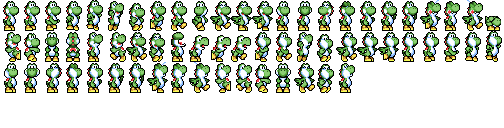
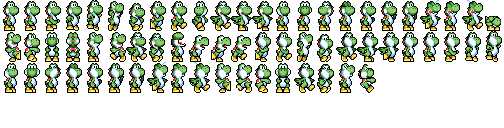
Animation

Changed region(s): [[0.6845, 0.5, 0.744, 0.7188], [0.0893, 0.5, 0.119, 0.7188]]

diff --git a/YoshisAdventure/Render/GameSceneRenderer.cs b/YoshisAdventure/Render/GameSceneRenderer.cs
@@ -1,6 +1,8 @@
 using Microsoft.Xna.Framework;
+using Microsoft.Xna.Framework.Content;
 using Microsoft.Xna.Framework.Graphics;
 using MonoGame.Extended;
+using MonoGame.Extended.BitmapFonts;
 using MonoGame.Extended.Tiled;
 using MonoGame.Extended.Tiled.Renderers;
 using MonoGame.Extended.ViewportAdapters;
@@ -13,12 +15,17 @@ namespace YoshisAdventure.Rendering
 {
     public class GameSceneRenderer
     {
+        private const float FadeAnimationKeepTime = 4f;
         private readonly GraphicsDevice _graphicsDevice;
         private TiledMap _tilemap;
         private TiledMapRenderer _tilemapRenderer;
         private OrthographicCamera _camera;
         private BoxingViewportAdapter _viewportAdapter;
         private SpriteBatch _spriteBatch;
+        private BitmapFont _bitmapFont;
+        private ContentManager _content;
+        //private bool _playFadeAnimation;
+        private float _animationTimer = -1f;
 
         private Vector2 _currentCameraPosition;
         private Vector2 _targetCameraPosition;
@@ -26,38 +33,61 @@ namespace YoshisAdventure.Rendering
         private float _cameraShakeTimer = -1f;
         private Vector2 _cameraShakeOffset = Vector2.Zero;
 
+        public bool IsFirstCameraUpdate { get; set; } = true;
+
+        public string DrawString { get; set; } = string.Empty;
+
         public BoxingViewportAdapter ViewportAdapter => _viewportAdapter;
 
-        public GameSceneRenderer(GraphicsDevice graphicsDevice, GameWindow window)
+        public GameSceneRenderer(GraphicsDevice graphicsDevice, GameWindow window, ContentManager content, bool playFadeAnimation = false)
         {
             _graphicsDevice = graphicsDevice;
             _viewportAdapter = new BoxingViewportAdapter(window, graphicsDevice, GlobalConfig.VirtualResolution_Width, GlobalConfig.VirtualResolution_Height);
             _camera = new OrthographicCamera(_viewportAdapter);
             _spriteBatch = new SpriteBatch(graphicsDevice);
+            _content = content;
+            if (playFadeAnimation)
+                _animationTimer = 0f;
         }
 
         public void LoadContent(TiledMap map)
         {
             _tilemap = map;
             _tilemapRenderer = new TiledMapRenderer(_graphicsDevice, _tilemap);
+            _bitmapFont = _content.Load<BitmapFont>("Fonts/ZFull-GB");
         }
 
         public void Update(GameTime gameTime, Vector2 cameraFocus, bool useFluentCamera = false, int cameraDirection = 1, Vector2 velocity = new Vector2())
         {
+            var elapsedTime = (float)gameTime.ElapsedGameTime.TotalSeconds;
+            if(_animationTimer >= 0f)
+            {
+                _animationTimer += elapsedTime;
+            }
+
+            if(_animationTimer >= FadeAnimationKeepTime)
+            {
+                _animationTimer = -1f;
+            }
+
+                UpdateCamera(gameTime, cameraFocus, useFluentCamera, cameraDirection, velocity);
             _tilemapRenderer.Update(gameTime);
-            UpdateCamera(gameTime, cameraFocus, useFluentCamera, cameraDirection, velocity);
         }
 
         private void UpdateCamera(GameTime gameTime, Vector2 cameraFocus, bool useFluentCamera = false, int cameraDirection = 1, Vector2 velocity = new Vector2())
         {
-            var elapsedTime = (float)gameTime.ElapsedGameTime.TotalSeconds;
             _targetCameraPosition = GetCameraPosition(cameraFocus);
-            if (useFluentCamera)
+            if (IsFirstCameraUpdate)
+            {
+                _currentCameraPosition = _targetCameraPosition;
+                IsFirstCameraUpdate = false;
+            }
+            else if (useFluentCamera)
             {
                 Vector2 lerpResult = Vector2.Lerp(_currentCameraPosition, _targetCameraPosition, 0.1f);
-                if (Math.Abs(velocity.X) >= 1)
+                if (Math.Abs(velocity.X) >= 2)
                 {
-                    float lookAheadDistance = 30f * MathHelper.Clamp(Math.Abs(velocity.X) / 10f, 0f, 1f);
+                    float lookAheadDistance = 30f * MathHelper.Clamp(Math.Abs(velocity.X) / 15f, 0f, 1f);
                     if (cameraDirection == 1)
                     {
                         lerpResult.X += lookAheadDistance;
@@ -73,6 +103,7 @@ namespace YoshisAdventure.Rendering
             {
                 _currentCameraPosition = GetCameraPosition(cameraFocus);
             }
+
             _camera.LookAt(_currentCameraPosition);
 
             if (_cameraShakeTimer >= 0f)
@@ -106,7 +137,31 @@ namespace YoshisAdventure.Rendering
                     if (gameObject != GameObjectsSystem.Player)
                         gameObject.Draw(_spriteBatch);
                 }
+
+                Rectangle screenBounds = GetScreenBounds();
+                 screenBounds.Inflate(10, 10);
+
+                if (_animationTimer <= 1.5f && _animationTimer >= 0f)
+                {
+                    _spriteBatch.FillRectangle(screenBounds, new Color(Color.Black, 255));
+                    if(DrawString != string.Empty)
+                    {
+                        _spriteBatch.DrawString(_bitmapFont, DrawString, _camera.ScreenToWorld(new Vector2(10,400)), Color.White);
+                    }
+                }
+                else if (_animationTimer > 1.5f && _animationTimer <= FadeAnimationKeepTime)
+                {
+                    float progress = _animationTimer / FadeAnimationKeepTime / 3f;
+                    int alpha = (int)MathHelper.Lerp(255, 0, progress);
+                    _spriteBatch.FillRectangle(screenBounds, new Color(Color.Black, alpha));
+                    if (DrawString != string.Empty)
+                    {
+                        _spriteBatch.DrawString(_bitmapFont, DrawString, _camera.ScreenToWorld(new Vector2(10, 400)), new Color(Color.White, alpha));
+                    }
+                }
+                
                 GameObjectsSystem.Player?.Draw(_spriteBatch);
+
             }
             _spriteBatch.End();
         }
@@ -118,7 +173,10 @@ namespace YoshisAdventure.Rendering
 
         public Rectangle GetScreenBounds()
         {
-            return new Rectangle((int)(_camera.Position.X - ViewportAdapter.VirtualWidth / 2 + ViewportAdapter.VirtualHeight / 2), (int)(_camera.Position.Y - ViewportAdapter.VirtualHeight / 2 + ViewportAdapter.VirtualHeight / 2), ViewportAdapter.VirtualWidth, ViewportAdapter.VirtualHeight);
+            return new Rectangle((int)(_camera.Position.X - ViewportAdapter.VirtualWidth / 2 + ViewportAdapter.VirtualWidth / 2), 
+                (int)(_camera.Position.Y - ViewportAdapter.VirtualHeight / 2 + ViewportAdapter.VirtualHeight / 2), 
+                ViewportAdapter.VirtualWidth, 
+                ViewportAdapter.VirtualHeight);
         }
 
         public void UnloadContent()

diff --git a/YoshisAdventure/Screens/GamingScreen.cs b/YoshisAdventure/Screens/GamingScreen.cs
@@ -3,8 +3,8 @@ using Microsoft.Xna.Framework.Graphics;
 using MonoGame.Extended.Screens.Transitions;
 using MonoGame.Extended.Tiled;
 using MonoGameGum;
+using System;
 using System.Linq;
-using System.Xml.Linq;
 using YoshisAdventure.GameObjects;
 using YoshisAdventure.Models;
 using YoshisAdventure.Rendering;
@@ -21,6 +21,7 @@ namespace YoshisAdventure.Screens
         private GamingScreenUI _ui;
         private Stage _stage;
         private TiledMap _tilemap;
+        private float _timer = 0f;
 
         public new GameMain Game => (GameMain)base.Game;
 
@@ -48,7 +49,8 @@ namespace YoshisAdventure.Screens
                 _tilemap = _stage.StartStage(Content);
             }
             _gameObjectFactory = new GameObjectFactory(Content);
-            _sceneRenderer = new GameSceneRenderer(GraphicsDevice, Game.Window);
+            _sceneRenderer = new GameSceneRenderer(GraphicsDevice, Game.Window, Content, true);
+            _sceneRenderer.DrawString = _stage.DisplayName + Environment.NewLine + _stage.Description;
             _sceneRenderer.LoadContent(_tilemap);
 
             Yoshi player = GameObjectsSystem.Player;
@@ -101,6 +103,18 @@ namespace YoshisAdventure.Screens
 
         public override void Update(GameTime gameTime)
         {
+            var elapsedTime = (float)gameTime.ElapsedGameTime.TotalSeconds;
+            if(_timer >= 0)
+            {
+                GameObjectsSystem.Player.CanHandleInput = false;
+                _timer += elapsedTime;
+            }
+            if(_timer >= 4f)
+            {
+                _timer = -1f;
+                GameObjectsSystem.Player.CanHandleInput = true;
+            }
+
             if (!_ui.IsReadingMessage)
             {
                 GameObjectsSystem.Update(gameTime);

diff --git a/YoshisAdventure/Screens/MapScreen.cs b/YoshisAdventure/Screens/MapScreen.cs
@@ -7,13 +7,12 @@ using MonoGame.Extended.Screens;
 using MonoGame.Extended.Screens.Transitions;
 using MonoGame.Extended.Tiled;
 using MonoGameGum;
-using System.Diagnostics;
 using System.Linq;
-using YoshisAdventure.GameObjects;
 using YoshisAdventure.GameObjects.OnMapObjects;
 using YoshisAdventure.Models;
 using YoshisAdventure.Rendering;
 using YoshisAdventure.Systems;
+using YoshisAdventure.Transitions;
 
 namespace YoshisAdventure.Screens
 {
@@ -35,7 +34,7 @@ namespace YoshisAdventure.Screens
         public override void LoadContent()
         {
             GumService.Default.Root.Children.Clear();
-            _sceneRenderer = new GameSceneRenderer(GraphicsDevice, Game.Window);
+            _sceneRenderer = new GameSceneRenderer(GraphicsDevice, Game.Window, Content);
             _tilemap = Content.Load<TiledMap>("Tilemaps/map");
             _sceneRenderer.LoadContent(_tilemap);
             _spriteBatch = new SpriteBatch(GraphicsDevice);
@@ -87,7 +86,7 @@ namespace YoshisAdventure.Screens
         {
             if (GameController.AttackPressed() && _stage != null)
             {
-                Game.LoadScreen(new GamingScreen(Game, _stage), new FadeTransition(GraphicsDevice, Color.Black, 1.5f));
+                Game.LoadScreen(new GamingScreen(Game, _stage), new FadeOnceTransition(GraphicsDevice, Color.Black, 1.5f));
             }
             GameObjectsSystem.Update(gameTime);
             _sceneRenderer.Update(gameTime, GameObjectsSystem.MapPlayer.Position);

diff --git a/YoshisAdventure/GameObjects/Enemy.cs b/YoshisAdventure/GameObjects/Enemy.cs
@@ -1,0 +1,46 @@
+using Microsoft.Xna.Framework;
+using Microsoft.Xna.Framework.Graphics;
+using MonoGame.Extended.Graphics;
+using MonoGame.Extended.Tiled;
+using System;
+
+namespace YoshisAdventure.GameObjects
+{
+    public class Enemy : GameObject, IDamageable
+    {
+        private AnimatedSprite _sprite;
+        private Vector2 _velocity;
+
+        public override Vector2 Velocity { get => _velocity; set => _velocity = value; }
+
+        public override Rectangle CollisionBox => GetCollisionBoxBottomCenter(Position, _sprite.Size);
+
+        public int Health => throw new NotImplementedException();
+
+        public Enemy(SpriteSheet spriteSheet, TiledMap tilemap) : base(tilemap)
+        {
+            _sprite = new AnimatedSprite(spriteSheet);
+            _sprite.SetAnimation("Normal");
+            Size = new Point(16, 32);
+        }
+
+        public void Die()
+        {
+
+        }
+
+        public void TakeDamage(int damage, GameObject source)
+        {
+
+        }
+        public override void Draw(SpriteBatch spriteBatch)
+        {
+            _sprite.Draw(spriteBatch, Position, 0, Vector2.One);
+        }
+
+        public override void Update(GameTime gameTime)
+        {
+            _sprite.Update(gameTime);
+        }
+    }
+}

diff --git a/YoshisAdventure/GameObjects/Yoshi.cs b/YoshisAdventure/GameObjects/Yoshi.cs
@@ -124,6 +124,8 @@ namespace YoshisAdventure.GameObjects
 
         public bool CanThrowEgg { get; set; } = true;
 
+        public bool CanHandleInput { get; set; } = true;
+
         public bool IsOnGround
         {
             get => _isOnGround;
@@ -501,7 +503,8 @@ namespace YoshisAdventure.GameObjects
         public override void Update(GameTime gameTime)
         {
             float elapsed = (float)gameTime.ElapsedGameTime.TotalSeconds;
-            HandleInput(gameTime);
+            if(CanHandleInput)
+                HandleInput(gameTime);
             Vector2 newPosition = Position;
             if (_isSpitting)
             {
@@ -1048,7 +1051,7 @@ namespace YoshisAdventure.GameObjects
                     spriteBatch.Draw(_tongueSprite.TextureRegion.Texture, tipPosition, tipSource, Color.White, rotation, Vector2.Zero, Vector2.One, SpriteEffects.None, 0f);
                 }
             }
-            _yoshiSprite.Draw(spriteBatch, new Vector2((int)Position.X, Position.Y), 0, Vector2.One);
+            _yoshiSprite.Draw(spriteBatch, Position, 0, Vector2.One);
         }
 
         public void Bounce()

diff --git a/YoshisAdventure/Transitions/FadeOnceTransion.cs b/YoshisAdventure/Transitions/FadeOnceTransion.cs
@@ -1,0 +1,38 @@
+using Microsoft.Xna.Framework;
+using Microsoft.Xna.Framework.Graphics;
+using MonoGame.Extended;
+using MonoGame.Extended.Screens.Transitions;
+
+namespace YoshisAdventure.Transitions;
+
+public class FadeOnceTransition : Transition
+{
+    private readonly GraphicsDevice _graphicsDevice;
+
+    private readonly SpriteBatch _spriteBatch;
+
+    public Color Color { get; }
+
+    public FadeOnceTransition(GraphicsDevice graphicsDevice, Color color, float duration = 1f)
+        : base(duration)
+    {
+        Color = color;
+        _graphicsDevice = graphicsDevice;
+        _spriteBatch = new SpriteBatch(graphicsDevice);
+    }
+
+    public override void Dispose()
+    {
+        _spriteBatch.Dispose();
+    }
+
+    public override void Draw(GameTime gameTime)
+    {
+        _spriteBatch.Begin(SpriteSortMode.Deferred, null, SamplerState.PointClamp);
+        if (base.State == TransitionState.Out)
+        {
+            _spriteBatch.FillRectangle(0f, 0f, _graphicsDevice.Viewport.Width, _graphicsDevice.Viewport.Height, Color * base.Value);
+        }
+        _spriteBatch.End();
+    }
+}

diff --git a/YoshisAdventure/GameObjects/Coin.cs b/YoshisAdventure/GameObjects/Coin.cs
@@ -1,0 +1,28 @@
+using Microsoft.Xna.Framework;
+using Microsoft.Xna.Framework.Graphics;
+using MonoGame.Extended.Tiled;
+using System;
+
+namespace YoshisAdventure.GameObjects
+{
+    public class Coin : GameObject
+    {        
+        public override Vector2 Velocity { get => throw new NotImplementedException(); set => throw new NotImplementedException(); }
+
+        public override Rectangle CollisionBox => throw new NotImplementedException();
+
+        public Coin(TiledMap tilemap) : base(tilemap)
+        {
+        }
+
+        public override void Draw(SpriteBatch spriteBatch)
+        {
+            throw new NotImplementedException();
+        }
+
+        public override void Update(GameTime gameTime)
+        {
+            throw new NotImplementedException();
+        }
+    }
+}

diff --git a/YoshisAdventure/GameObjects/OnMapObjects/MapYoshi.cs b/YoshisAdventure/GameObjects/OnMapObjects/MapYoshi.cs
@@ -67,10 +67,14 @@ namespace YoshisAdventure.GameObjects.OnMapObjects
                     _sprite.SetAnimation("WalkSide");
                 _sprite.Effect = SpriteEffects.None;
             }
-            if (_velocity == Vector2.Zero)
+            else if (GameController.AttackPressed() && _stageName != string.Empty) 
             {
-                if (_sprite.CurrentAnimation != "Walk")
-                    _sprite.SetAnimation("Walk");
+                if (_sprite.CurrentAnimation != "Start")
+                    _sprite.SetAnimation("Start");
+            }
+            if (_velocity == Vector2.Zero && _sprite.CurrentAnimation != "Walk" && _sprite.CurrentAnimation != "Start")
+            {
+                _sprite.SetAnimation("Walk");
             }
         }
 

diff --git a/YoshisAdventure/Screens/LogoScreen.cs b/YoshisAdventure/Screens/LogoScreen.cs
@@ -3,7 +3,6 @@ using Microsoft.Xna.Framework.Graphics;
 using MonoGame.Extended.Screens;
 using MonoGame.Extended.Screens.Transitions;
 using MonoGame.Extended.ViewportAdapters;
-using System.Diagnostics;
 using YoshisAdventure.Systems;
 
 namespace YoshisAdventure.Screens
